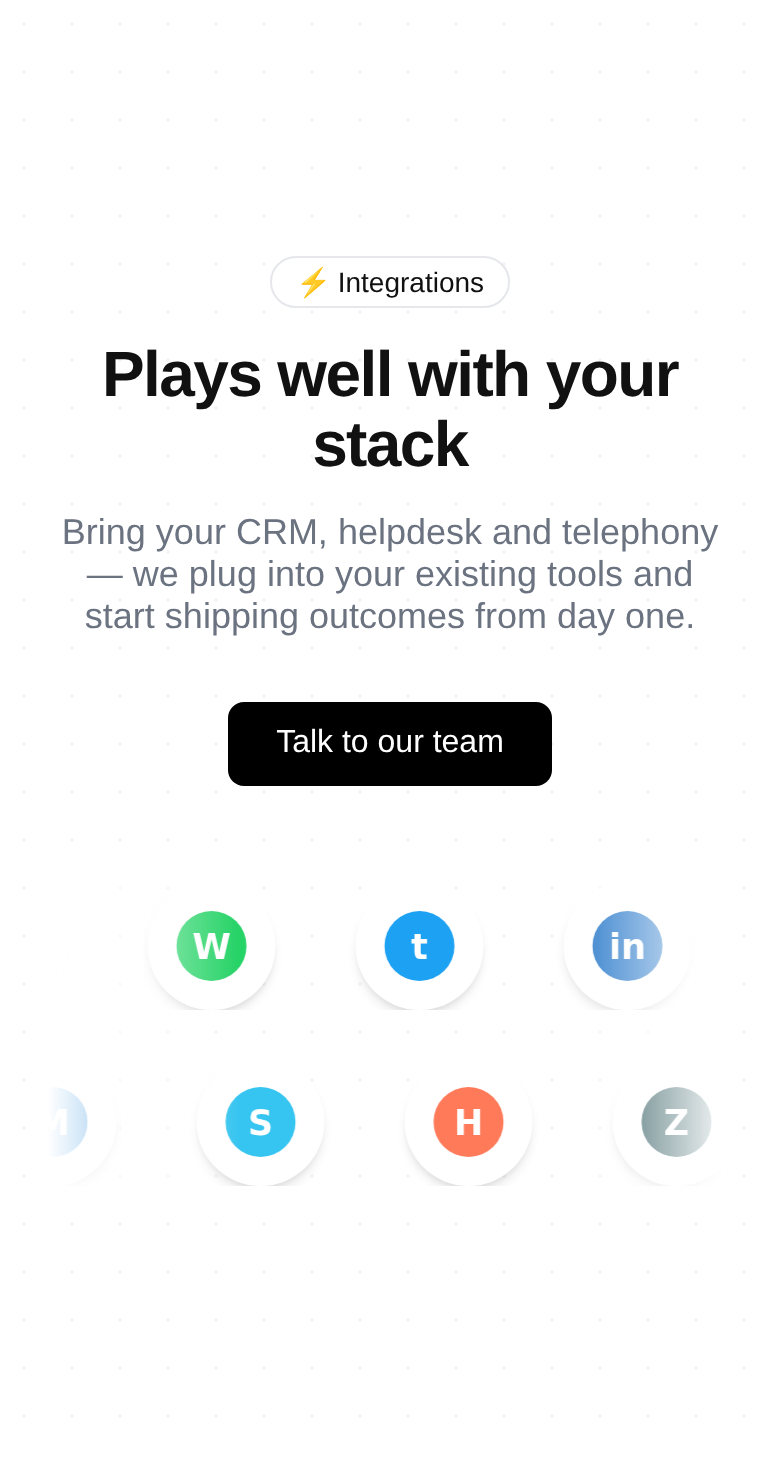
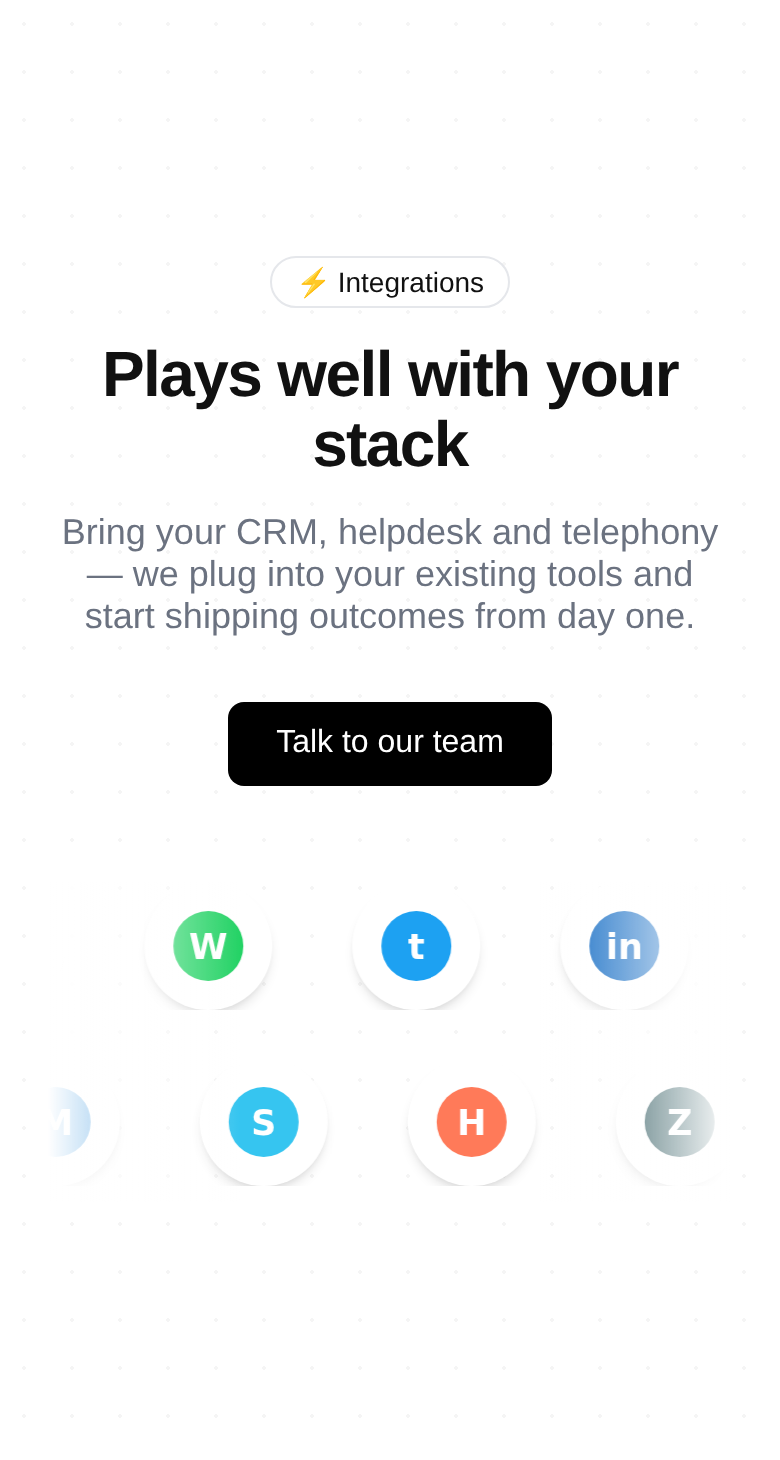
Re-skin design-system to BPO Firm's original light brand palette
Owner pulled back from the dark-portfolio palette and asked for
bpofirm.com's actual brand colours. Confirmed against
reference/bpofirm-site-reference.md section 3:

  Primary accent (red)     #ef494b
  Secondary accent (blue)  #0a58ca
  Body bg                  white + occasional dark sections

Changes:
- Light page surface tokens: --bg white, --surface slate-50, --text
  slate-900, --muted slate-500, --stroke slate-200
- Added --bpo-brand-blue (#0a58ca) + --bpo-brand-blue-soft for the
  cursor-trail RGBA from the site reference
- Kept the red->dark-red accent gradient (lands well on light bg, drives
  the gradient-shift animation that's part of the reference design)
- Added .bpo-section-dark utility to flip individual blocks dark within
  an otherwise light page, for the CTA / footer bands called out in
  the site reference
- Kept Inter + Instrument Serif italic — owner only walked back COLORS;
  the editorial type pairing carries the portfolio feel onto bpofirm
- Renamed scope class .bpo-dark -> .bpo-page (better fits a light theme)
- Renamed opt-in shortcode [bpofirm_dark_theme] -> [bpofirm_brand_theme]
- Filter hook bpofirm_dark_page_slugs kept as-is to avoid breaking any
  owner override (documented in README)

Service-page blocks unchanged (verified via re-screenshot).

diff --git a/wp-content/plugins/bpofirm-design-system/assets/tokens.css b/wp-content/plugins/bpofirm-design-system/assets/tokens.css
@@ -1,59 +1,83 @@
 /* BPO Firm — Design System tokens
- * Dark-portfolio aesthetic adapted from the React reference (single-page
- * portfolio). All rules scoped under .bpo-dark so the existing
- * light-themed service pages aren't affected.
+ * Brand-themed design language for Home, About, Contact. Uses bpofirm's
+ * original light palette (red + blue accents on white) but keeps the
+ * editorial type pairing (Inter + Instrument Serif italic) and the
+ * animation library from the React reference.
  *
- * Reference design uses #89AACC -> #4E85BF blue accent gradient; we keep
- * BPO Firm's brand red #ef494b and pair it with a darker red stop
- * (#b91c1c) so the gradient-shift animation still reads.
+ * All rules scoped under .bpo-page so the existing service-page blocks
+ * (bpofirm-scroll-hero plugin) are not affected.
  */
 
 @import url('https://fonts.googleapis.com/css2?family=Inter:wght@300;400;500;600;700&family=Instrument+Serif:ital,wght@1,400&display=swap');
 
-/* ----- Root font + brand tokens (always loaded, no styling impact alone) - */
+/* ----- Root font + brand tokens (always loaded) ------------------------ */
 :root {
 	--bpo-font-body:    'Inter', system-ui, -apple-system, sans-serif;
 	--bpo-font-display: 'Instrument Serif', Georgia, 'Times New Roman', serif;
-	--bpo-brand:        #ef494b;
-	--bpo-brand-dark:   #b91c1c;
+
+	/* Confirmed against reference/bpofirm-site-reference.md §3. */
+	--bpo-brand:        #ef494b;   /* primary accent — CTAs, highlights, cursor */
+	--bpo-brand-dark:   #b91c1c;   /* paired darker stop for gradient */
+	--bpo-brand-blue:   #0a58ca;   /* secondary accent — links, cursor trail */
+	--bpo-brand-blue-soft: rgba(10, 88, 202, 0.25);
+
 	--bpo-accent-gradient: linear-gradient(90deg, #ef494b 0%, #b91c1c 100%);
 }
 
-/* ----- Dark-theme scope ------------------------------------------------- */
-.bpo-dark {
-	/* HSL components (no hsl() wrapper — same pattern as the reference). */
+/* ----- Brand-page scope (light theme) ---------------------------------- */
+.bpo-page {
+	/* HSL components (no hsl() wrapper, same pattern as reference). */
+	--bg:      0 0% 100%;   /* white */
+	--surface: 220 14% 98%; /* near-white slate */
+	--text:    222 47% 11%; /* slate-900 */
+	--muted:   215 16% 47%; /* slate-500 */
+	--stroke:  216 12% 84%; /* slate-200 */
+
+	background-color: hsl(var(--bg));
+	color: hsl(var(--text));
+	color-scheme: light;
+	font-family: var(--bpo-font-body);
+	-webkit-font-smoothing: antialiased;
+}
+
+/* Dark-section utility — for the occasional contrast band (CTA, footer)
+ * called out in the site reference. Apply this class to any section that
+ * should invert to dark within an otherwise light page. */
+.bpo-page .bpo-section-dark,
+.bpo-section-dark.bpo-page {
 	--bg:      0 0% 4%;
 	--surface: 0 0% 8%;
 	--text:    0 0% 96%;
 	--muted:   0 0% 53%;
 	--stroke:  0 0% 12%;
-
 	background-color: hsl(var(--bg));
 	color: hsl(var(--text));
 	color-scheme: dark;
-	font-family: var(--bpo-font-body);
-	-webkit-font-smoothing: antialiased;
 }
 
-/* Type-scale utility classes (mirrors the reference's font-display + sizes). */
-.bpo-dark .bpo-display {
+/* Type-scale utility classes (mirrors reference's font-display + sizes). */
+.bpo-page .bpo-display {
 	font-family: var(--bpo-font-display);
 	font-style: italic;
 	line-height: 0.9;
 	letter-spacing: -0.01em;
 }
-.bpo-dark .bpo-eyebrow {
+.bpo-page .bpo-eyebrow {
 	font-size: 0.75rem;
 	font-weight: 500;
 	text-transform: uppercase;
 	letter-spacing: 0.3em;
 	color: hsl(var(--muted));
 }
-.bpo-dark .bpo-muted { color: hsl(var(--muted)); }
-.bpo-dark .bpo-surface {
+.bpo-page .bpo-muted { color: hsl(var(--muted)); }
+.bpo-page .bpo-surface {
 	background-color: hsl(var(--surface));
 	border: 1px solid hsl(var(--stroke));
 }
+
+/* Brand-coloured text helpers. */
+.bpo-brand-red  { color: var(--bpo-brand); }
+.bpo-brand-blue { color: var(--bpo-brand-blue); }
 
 /* ----- Accent gradient utilities --------------------------------------- */
 .bpo-accent-gradient {
@@ -65,9 +89,6 @@
 	-webkit-background-clip: text;
 	color: transparent;
 }
-/* Gradient ring (for logo / button hover borders). Wrap the element you
- * want ringed in a parent with this class; the parent has 2px padding
- * and the inner element should have the page's bg colour. */
 .bpo-accent-ring {
 	background: var(--bpo-accent-gradient);
 	padding: 2px;
@@ -75,7 +96,7 @@
 	display: inline-block;
 }
 
-/* ----- Custom keyframes ------------------------------------------------- */
+/* ----- Custom keyframes (from React reference) ------------------------- */
 @keyframes bpo-scroll-down {
 	0%   { transform: translateY(-100%); }
 	100% { transform: translateY(200%); }
@@ -100,7 +121,6 @@
 	animation: bpo-gradient-shift 6s ease infinite;
 }
 
-/* Glow used under the loading-screen progress bar in the reference. */
 .bpo-accent-glow {
 	box-shadow: 0 0 8px rgba(239, 73, 75, 0.45);
 }

diff --git a/preview/design-tokens.html b/preview/design-tokens.html
@@ -40,7 +40,7 @@
 		}
 	</style>
 </head>
-<body class="bpo-dark">
+<body class="bpo-page">
 	<div class="grid">
 
 		<div class="row">
@@ -56,10 +56,20 @@
 
 		<div class="row">
 			<h3>Brand accent</h3>
-			<div class="swatches" style="grid-template-columns: repeat(3, 1fr);">
+			<div class="swatches" style="grid-template-columns: repeat(4, 1fr);">
 				<div class="swatch"><div class="chip" style="background: #ef494b"></div><span class="name">--bpo-brand</span><span class="val">#ef494b</span></div>
 				<div class="swatch"><div class="chip" style="background: #b91c1c"></div><span class="name">--bpo-brand-dark</span><span class="val">#b91c1c</span></div>
+				<div class="swatch"><div class="chip" style="background: #0a58ca"></div><span class="name">--bpo-brand-blue</span><span class="val">#0a58ca</span></div>
 				<div class="swatch"><div class="chip bpo-accent-gradient"></div><span class="name">--bpo-accent-gradient</span><span class="val">red → dark red</span></div>
+			</div>
+		</div>
+
+		<div class="row">
+			<h3>Dark section</h3>
+			<div class="bpo-section-dark" style="padding: 32px; border-radius: 16px; max-width: 520px;">
+				<p class="bpo-eyebrow" style="margin: 0 0 12px;">CTA Band</p>
+				<h2 class="bpo-display" style="font-size: 36px; margin: 0 0 16px; color: hsl(var(--text));">Ready when you are.</h2>
+				<span class="btn-ringed bpo-accent-gradient"><span class="inner" style="background: hsl(var(--bg)); color: hsl(var(--text));">Book a discovery call ↗</span></span>
 			</div>
 		</div>
 

diff --git a/wp-content/plugins/bpofirm-design-system/bpofirm-design-system.php b/wp-content/plugins/bpofirm-design-system/bpofirm-design-system.php
@@ -2,7 +2,7 @@
 /**
  * Plugin Name:       BPO Firm Design System
  * Plugin URI:        https://bpofirm.com/
- * Description:       Dark-portfolio design tokens (fonts, colours, brand-red accent gradient, custom keyframes) for Home, About and Contact. All rules scoped under .bpo-dark so service pages keep their lighter design.
+ * Description:       BPO Firm brand design tokens (fonts, light theme, red + blue accents, custom keyframes) for Home, About and Contact. All rules scoped under .bpo-page so service pages keep their lighter design.
  * Version:           0.1.0
  * Requires at least: 6.4
  * Requires PHP:      7.4
@@ -31,7 +31,7 @@ add_action(
 );
 
 /**
- * Auto-apply the .bpo-dark body class on Home, About, Contact. Pages in
+ * Auto-apply the .bpo-page body class on Home, About, Contact. Pages in
  * `bpofirm_dark_page_slugs` (filterable) get the dark theme without any
  * per-page edits.
  */
@@ -44,14 +44,14 @@ add_filter(
 		);
 
 		if ( is_front_page() || is_home() ) {
-			$classes[] = 'bpo-dark';
+			$classes[] = 'bpo-page';
 			return $classes;
 		}
 
 		if ( is_page() ) {
 			$slug = get_post_field( 'post_name', get_queried_object_id() );
 			if ( in_array( $slug, $dark_slugs, true ) ) {
-				$classes[] = 'bpo-dark';
+				$classes[] = 'bpo-page';
 			}
 		}
 
@@ -64,8 +64,8 @@ add_filter(
  * [bpofirm_dark_theme] anywhere on the page to force dark theme.
  */
 add_shortcode(
-	'bpofirm_dark_theme',
+	'bpofirm_brand_theme',
 	static function () {
-		return '<script>document.documentElement.classList.add("bpo-dark");document.body&&document.body.classList.add("bpo-dark");</script>';
+		return '<script>document.documentElement.classList.add("bpo-page");document.body&&document.body.classList.add("bpo-page");</script>';
 	}
 );

diff --git a/wp-content/plugins/bpofirm-design-system/README.md b/wp-content/plugins/bpofirm-design-system/README.md
@@ -1,50 +1,42 @@
 # BPO Firm — Design System
 
-Foundational design tokens for the dark-portfolio aesthetic adopted on **Home, About, and Contact**. Service pages keep the lighter design from the `bpofirm-scroll-hero` plugin.
+Foundational design tokens for **Home, About, and Contact** — locked with owner. Uses bpofirm.com's original brand palette (red + blue accents on a light bg) but adopts the section structure, type pairing and animation library from the React portfolio reference. Service pages keep the lighter blocks shipped via `bpofirm-scroll-hero`.
 
 ## What it ships
 
 - **Google Fonts** — Inter (300–700) + Instrument Serif (italic 400)
-- **CSS custom properties** — `--bg`, `--surface`, `--text`, `--muted`, `--stroke` (HSL components, no `hsl()` wrapper, same pattern as the reference)
-- **Brand accent gradient** — `#ef494b → #b91c1c` (BPO Firm red, replacing the reference's blue)
-- **Type-scale utilities** — `.bpo-display`, `.bpo-eyebrow`, `.bpo-muted`, `.bpo-surface`
+- **Brand tokens**
+  - `--bpo-brand` `#ef494b` (primary accent — CTAs, highlights, custom cursor)
+  - `--bpo-brand-dark` `#b91c1c` (paired darker stop for the accent gradient)
+  - `--bpo-brand-blue` `#0a58ca` (secondary accent — links, cursor trail)
+  - `--bpo-accent-gradient` `linear-gradient(90deg, #ef494b, #b91c1c)`
+- **Page surface tokens (HSL components)** — `--bg`, `--surface`, `--text`, `--muted`, `--stroke`
+- **Type utilities** — `.bpo-display`, `.bpo-eyebrow`, `.bpo-muted`, `.bpo-surface`, `.bpo-brand-red`, `.bpo-brand-blue`
 - **Accent utilities** — `.bpo-accent-gradient`, `.bpo-accent-gradient-text`, `.bpo-accent-ring`, `.bpo-accent-glow`
 - **Custom keyframes** — `bpo-scroll-down`, `bpo-role-fade-in`, `bpo-gradient-shift` with matching `.bpo-animate-*` classes
+- **Dark-section utility** — `.bpo-section-dark` flips a single block to dark within an otherwise light page (for the occasional CTA band / footer)
 - Honours `prefers-reduced-motion`
 
-## How it scopes
+## Scoping
 
-All dark-theme styles live inside `.bpo-dark`. The plugin auto-adds this class to the `<body>` on these slugs (filterable):
+All theme rules live inside `.bpo-page`. The plugin auto-adds this class to the `<body>` on:
 
 ```
 home, front-page, about, about-us, contact, contact-us
 ```
 
-For any other page you want dark, drop the opt-in shortcode anywhere on the page:
+Filterable via `bpofirm_dark_page_slugs` (legacy hook name — renaming would break opt-ins, kept as-is). To opt-in any other page, drop:
 
 ```text
-[bpofirm_dark_theme]
-```
-
-To change the auto-list:
-
-```php
-add_filter( 'bpofirm_dark_page_slugs', function ( $slugs ) {
-    return array_merge( $slugs, array( 'pricing', 'careers' ) );
-} );
+[bpofirm_brand_theme]
 ```
 
 ## Install
 
 1. Upload `bpofirm-design-system/` to `wp-content/plugins/`.
 2. **Plugins → Activate** "BPO Firm Design System".
-3. Visit your Home page — body should now have `class="… bpo-dark"` and pages adopt the dark background.
+3. Visit Home — body picks up `class="… bpo-page"` and starts rendering with the token system.
 
-## Companion plugins
+## Token reference
 
-- **bpofirm-scroll-hero** — Service-page blocks (scroll-expand hero + integrations carousel). Light theme.
-- Coming next — Hero, Selected Works, Journal, Explorations, Stats, Contact/Marquee blocks for the dark pages.
-
-## Token reference (preview)
-
-`preview/design-tokens.html` renders every token side-by-side. Run `node preview/screenshot.js` to regenerate the visual snapshot.
+`preview/design-tokens.html` renders every token side-by-side. Run `node preview/screenshot.js` to regenerate the snapshot.
